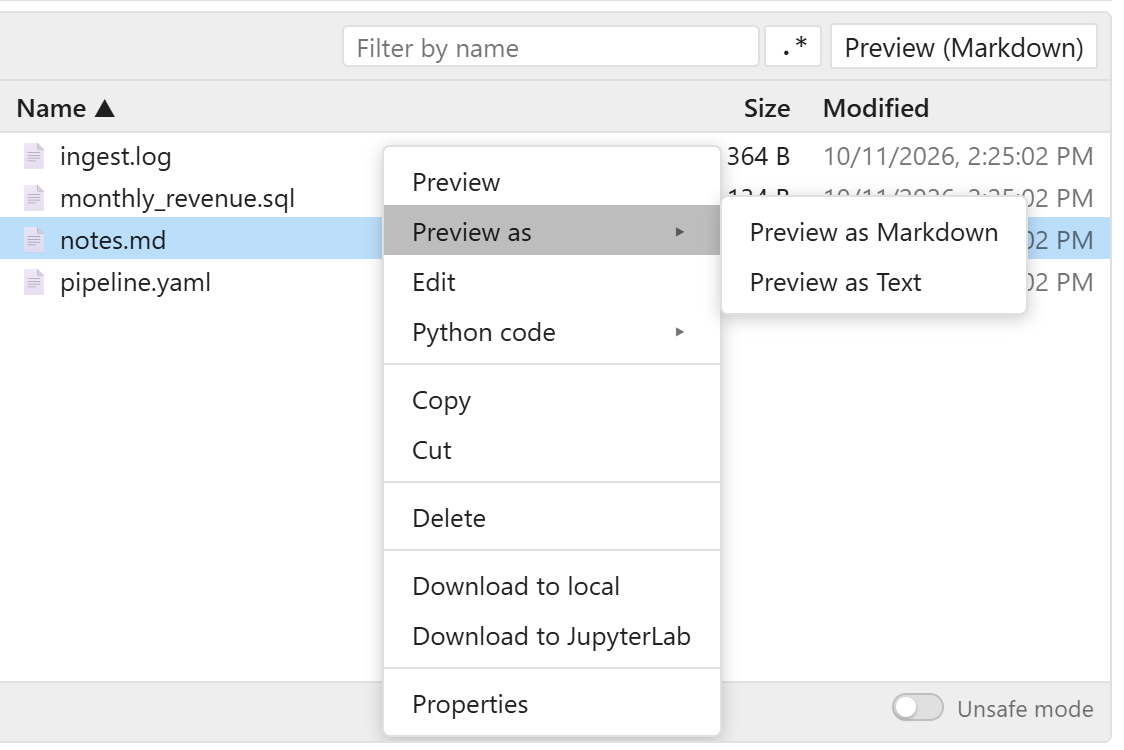
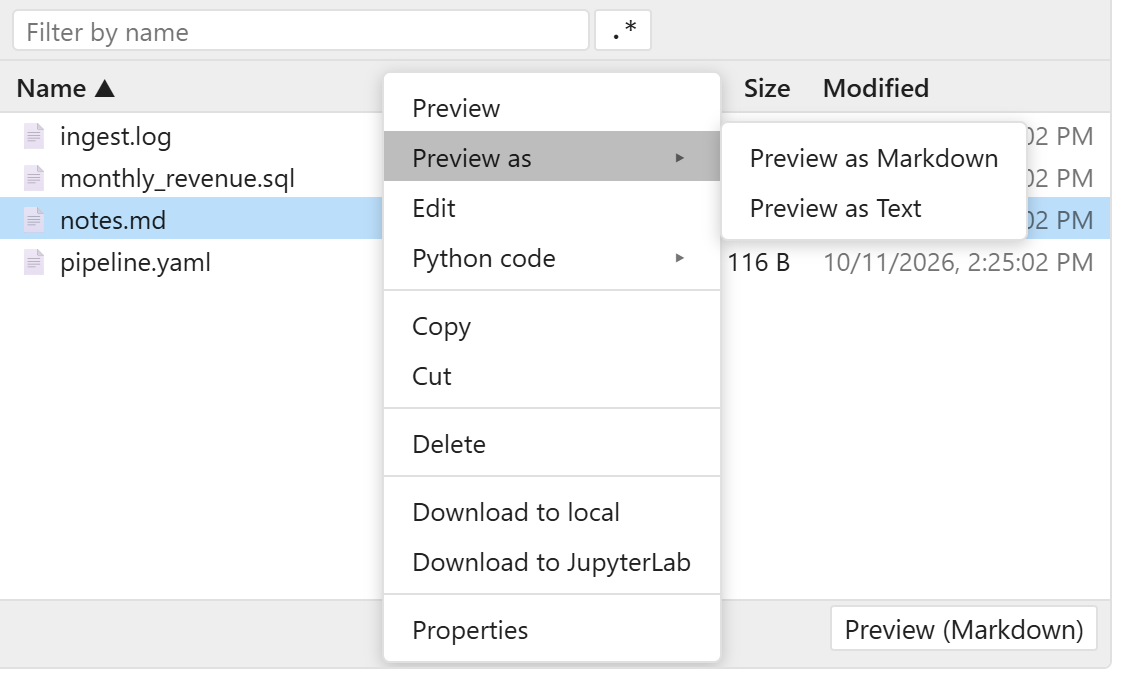
Bars back above the panes: storage chooser over the tree; switch in the toolbar
The bars above the tree and the list come back: the tree's holds the
storage chooser instead of the removed filter, the list's its filter and
pager as before. Unsafe mode moves to the toolbar's right end, and Preview
to the status bar's.

Claude-Session: https://claude.ai/code/session_01HAwtBQoU26mZV3X6NRDYj5

diff --git a/src/jupyter_storage_explorer/static/storage_explorer.js b/src/jupyter_storage_explorer/static/storage_explorer.js
@@ -203,7 +203,7 @@ function render({ model, el }) {
   const tbody = h("tbody");
   const listEl = h("div", { className: "jse-list" }, h("table", {}, h("thead", {}, headRow), tbody));
   const statusEl = h("div", { className: "jse-status" });
-  // "Unsafe mode", at the right end of the status bar (see takeUnsafe): a
+  // "Unsafe mode", at the right end of the toolbar (see takeUnsafe): a
   // slider. The checkbox is hidden but still focusable (Space toggles it);
   // the track and knob are drawn by CSS.
   const unsafeInput = h("input", { type: "checkbox", role: "switch", className: "jse-switch-input" });
@@ -220,9 +220,11 @@ function render({ model, el }) {
     h("span", { className: "jse-switch", ariaHidden: "true" }),
     unsafeLabel,
   );
-  // The status bar: messages on the left (hidden with the preview panel open), the switch on the right.
-  const statusBarEl = h("div", { className: "jse-status-bar" }, statusEl, unsafeEl);
-  // The list's filter and pager (pages of PAGE_SIZE items; see renderList), in the toolbar.
+  // The status bar: messages on the left (hidden with the preview panel open), Preview on the right.
+  const statusBarEl = h("div", { className: "jse-status-bar" }, statusEl, previewBtn);
+  // Tree and list; its height is the `height` trait until resized by dragging.
+  // Above each pane, a bar: the filesystem chooser for the tree; for the list,
+  // its filter and the pager (pages of PAGE_SIZE items; see renderList).
   const PAGE_SIZE = 100;
   let listPage = 0;
   // Set while typing in the list's filter: in large folders, the kernel is
@@ -240,8 +242,13 @@ function render({ model, el }) {
   const nextPageBtn = h("button", { className: "jse-btn", title: "Next page", textContent: "▶" });
   const pageLabel = h("span", { className: "jse-page-label" });
   const pagerEl = h("div", { className: "jse-pager", hidden: true }, prevPageBtn, pageLabel, nextPageBtn);
-  // Tree and list; its height is the `height` trait until resized by dragging.
-  const panesEl = h("div", { className: "jse-panes" }, treeEl, listEl);
+  // Each pane is a column, its bar on top, so the bars follow the tree's width when it is resized.
+  const panesEl = h(
+    "div",
+    { className: "jse-panes" },
+    h("div", { className: "jse-pane jse-tree-pane" }, h("div", { className: "jse-pane-bar" }, fsSelect), treeEl),
+    h("div", { className: "jse-pane jse-list-pane" }, h("div", { className: "jse-pane-bar" }, listFilter.el, pagerEl), listEl),
+  );
   // Bottom edge of the widget: resizes the last area (preview panel or tree and list).
   const grip = h("div", { className: "jse-grip", title: "Drag to resize" });
   // Preview panel below the tree and list; the splitter on its top edge moves
@@ -317,7 +324,7 @@ function render({ model, el }) {
   // each, above the status bar; see "Jobs" below.
   const jobsEl = h("div", { className: "jse-jobs", hidden: true });
   el.replaceChildren(
-    h("div", { className: "jse-toolbar" }, fsSelect, bookmarkBtn, upBtn, refreshBtn, pathEl, listFilter.el, pagerEl, previewBtn),
+    h("div", { className: "jse-toolbar" }, bookmarkBtn, upBtn, refreshBtn, pathEl, unsafeEl),
     panesEl,
     previewEl,
     jobsEl,

diff --git a/src/jupyter_storage_explorer/static/storage_explorer.css b/src/jupyter_storage_explorer/static/storage_explorer.css
@@ -1,9 +1,7 @@
 /* StorageExplorer: toolbar, tree and list, preview panel, menus and editor.
    Joined after common.css and query.css (see _static.py). */
-/* Wraps when narrow: the filter, pager and Preview go to a second line. */
 .jse-toolbar {
   display: flex;
-  flex-wrap: wrap;
   align-items: center;
   gap: 4px;
   padding: 4px 6px;
@@ -11,8 +9,10 @@
   background: var(--jse-bg-alt);
 }
 
+/* Above the tree, as wide as it. */
 .jse-fs-select {
-  max-width: 200px;
+  flex: 1;
+  min-width: 0;
   padding: 2px 4px;
   border: 1px solid var(--jse-border);
   border-radius: 3px;
@@ -30,11 +30,10 @@
   color: var(--jse-accent);
 }
 
-/* Takes the toolbar's free width; below 120px, the toolbar wraps instead. Right
-   to left, so a long path is cut at its start (…/folder shown); the crumbs
-   themselves are left to right (.jse-crumbs). */
+/* Right to left, so a long path is cut at its start (…/folder shown); the
+   crumbs themselves are left to right (.jse-crumbs). */
 .jse-path {
-  flex: 1 1 120px;
+  flex: 1;
   min-width: 0;
   margin-left: 6px;
   overflow: hidden;
@@ -76,16 +75,41 @@
   flex: 1 1 0;
 }
 
-/* The list's filter, between the path and the pager: the path takes what is left. */
-.jse-toolbar .jse-filter {
-  flex: 0 1 240px;
-  min-width: 120px;
+/* Each pane is a column: its bar (the filesystem chooser for the tree; the
+   filter and pager for the list) on top, then the tree or list. The tree's
+   pane is as wide as the tree, which can be resized from its corner. */
+.jse-pane {
+  display: flex;
+  flex-direction: column;
+  min-height: 0;
+}
+
+.jse-tree-pane {
+  flex: none;
+  max-width: 70%;
+  border-right: 1px solid var(--jse-border);
+}
+
+.jse-list-pane {
+  flex: 1;
+  min-width: 0;
+}
+
+.jse-pane-bar {
+  display: flex;
+  align-items: center;
+  gap: 6px;
+  min-height: 26px;
+  padding: 2px 6px;
+  border-bottom: 1px solid var(--jse-border);
+  background: var(--jse-bg-alt);
 }
 
 .jse-pager {
   display: flex;
   align-items: center;
   gap: 4px;
+  margin-left: auto;
   color: var(--jse-fg-muted);
   font-size: 0.9em;
   white-space: nowrap;
@@ -95,11 +119,9 @@
   display: none;
 }
 
-/* As wide as set by dragging its corner. */
 .jse-tree {
-  flex: none;
-  max-width: 70%;
-  border-right: 1px solid var(--jse-border);
+  flex: 1;
+  min-height: 0;
   width: 260px;
   min-width: 120px;
   overflow: auto;
@@ -137,7 +159,7 @@
 
 .jse-list {
   flex: 1;
-  min-width: 0;
+  min-height: 0;
   overflow: auto;
 }
 
@@ -519,7 +541,7 @@
 }
 
 /* The status bar: messages on the left (.jse-status, without its own border
-   here), the "Unsafe mode" slider on the right. */
+   here), Preview on the right. */
 .jse-status-bar {
   display: flex;
   align-items: center;
@@ -533,12 +555,16 @@
   border-top: none;
 }
 
+.jse-status-bar > .jse-btn {
+  margin: 2px 6px 2px auto; /* stays right when the message is hidden */
+}
+
+/* At the toolbar's right end. */
 .jse-unsafe {
   display: flex;
   align-items: center;
   gap: 6px;
-  margin-left: auto; /* stays right when the message is hidden */
-  padding: 2px 8px;
+  padding: 2px 4px 2px 8px;
   color: var(--jse-fg-muted);
   font-size: 0.9em;
   white-space: nowrap;

diff --git a/src/jupyter_storage_explorer/storage_explorer.py b/src/jupyter_storage_explorer/storage_explorer.py
@@ -160,7 +160,7 @@ class StorageExplorer(anywidget.AnyWidget):
     or others), "Delete" and "Create a folder".
     Files dragged from JupyterLab's file browser or the user's computer are
     uploaded; files dragged onto a folder are moved there. Folders are moved,
-    copied and deleted only in "Unsafe mode" (the slider in the status bar),
+    copied and deleted only in "Unsafe mode" (the slider in the toolbar),
     which any operation turns off again.
 
     Moving, deleting, pasting, uploading and downloading to JupyterLab run in
@@ -316,7 +316,7 @@ class StorageExplorer(anywidget.AnyWidget):
     # widget's drop-down sets `_filesystem` to switch.
     _filesystem_names = traitlets.List(traitlets.Unicode()).tag(sync=True)
     _filesystem = traitlets.Unicode().tag(sync=True)
-    # The "Unsafe mode" switch in the status bar: while on, risky operations
+    # The "Unsafe mode" switch in the toolbar: while on, risky operations
     # are offered (today: moving, copying, pasting and deleting folders). The
     # frontend turns it off when any operation starts, and sends with each
     # request whether it was on ("unsafe").

diff --git a/docs/storage-explorer.md b/docs/storage-explorer.md
@@ -38,7 +38,7 @@ StorageExplorer("gs://my-bucket", token="google_default")  # Google Cloud
 
 ### Several storages in one explorer
 
-Name each storage, and switch between them with the drop-down left of the address bar:
+Name each storage, and switch between them with the drop-down above the tree:
 
 ```python
 StorageExplorer(
@@ -83,24 +83,24 @@ several items.
 
 ### Filter
 
-Type in the field in the toolbar to list only the names containing the text, or matching a regular expression with
-**.\***. ✕ or Esc clears; opening another folder clears it too.
+Type in the field above the list to show names containing the text, or matching a regular expression with **.\***.
+✕ or Esc clears; opening another folder clears it too.
 
 <img src="figs/using-filter.png" width="562" alt="The list filtered with a regular expression">
 
 ### Preview
 
-Double-click a file, or **Preview** (with nothing selected: the current folder, e.g. a Delta Lake table), or right-click
+Double-click a file, or **Preview** at the bottom right (with nothing selected: the current folder, e.g. a Delta Lake table), or right-click
 → **Preview**; **Preview as** chooses another format. Tables open in the [data browser](#query-data).
 
-<img src="figs/using-preview.png" width="562" alt="Preview in the toolbar, and Preview as in the right-click menu of a Markdown file">
+<img src="figs/using-preview.png" width="562" alt="Preview in the status bar, and Preview as in the right-click menu of a Markdown file">
 
 ### Right-click
 
 Preview as, Edit, Python code to load the data, Copy URL; Copy, Cut, Paste; Create a folder, Delete; Download to local
 or to JupyterLab; Properties, Add bookmark.
 
-<img src="figs/using-right-click.png" width="367" alt="The right-click menu of a JSON Lines file">
+<img src="figs/using-right-click.png" width="366" alt="The right-click menu of a JSON Lines file">
 
 ### Properties
 
@@ -114,7 +114,7 @@ of files and folders, their total size, and the oldest and newest files.
 Right-click a folder → **Add bookmark**. ☆ lists them; click one to open it, right-click it for Copy URL and Delete
 bookmark.
 
-<img src="figs/using-bookmarks.png" width="333" alt="The bookmarks menu">
+<img src="figs/using-bookmarks.png" width="227" alt="The bookmarks menu">
 
 ### Copy, cut and paste
 
@@ -132,9 +132,9 @@ status bar.
 
 ## Unsafe operations
 
-Folder operations need **Unsafe mode**, turned on with the slider in the status bar, for one operation:
+Folder operations need **Unsafe mode**, turned on with the slider at the right of the toolbar, for one operation:
 
-<img src="figs/unsafe-mode.png" width="405" alt="The Unsafe mode slider, on, at the right of the status bar">
+<img src="figs/unsafe-mode.png" width="405" alt="The Unsafe mode slider, on, at the right of the toolbar">
 
 | Operation              | How                                                                                          |
 |------------------------|----------------------------------------------------------------------------------------------|

diff --git a/CLAUDE.md b/CLAUDE.md
@@ -137,7 +137,7 @@ misses subfolders) and returning what was found, `complete` False, on a cancel. 
 modification time whichever key a filesystem uses, for the list too.
 
 **Unsafe mode.** Folder operations (move, copy or cut and paste, delete) are offered only while the "Unsafe mode" slider in
-the status bar is on (trait `_unsafe_mode`). In the frontend, every operation calls `takeUnsafe()` as it starts, which
+the toolbar is on (trait `_unsafe_mode`). In the frontend, every operation calls `takeUnsafe()` as it starts, which
 turns it off (one operation at a time), and sends whether it was on with its request (`"unsafe"`); the kernel refuses
 folders without it (the methods' `folders=` parameter).
 
@@ -178,7 +178,7 @@ the kernel sends; selection survives filtering and paging. Folders can hold tens
 (`"urls"`) when copying. It sorts once per listing, not per keystroke. Folders of more than `max_browser_items` are
 handled by the kernel instead (`listing.py`): `_listing` then only gives their size and a version, and the frontend
 asks for pages (`"list"`), filtering the rows shown while it waits; sorting and filters there follow the browser's as
-closely as Python allows (natural order ignoring case and accents; Python's `re`). Filters (the list's, in the toolbar; *Select columns*) use
+closely as Python allows (natural order ignoring case and accents; Python's `re`). Filters (the list's; *Select columns*) use
 `createFilter` in `common.js`: text or a regular expression, always case-insensitive. The list's is cleared when
 another folder's listing arrives (`renderList`), not on the click, so the previous folder's items never show unfiltered.
 
